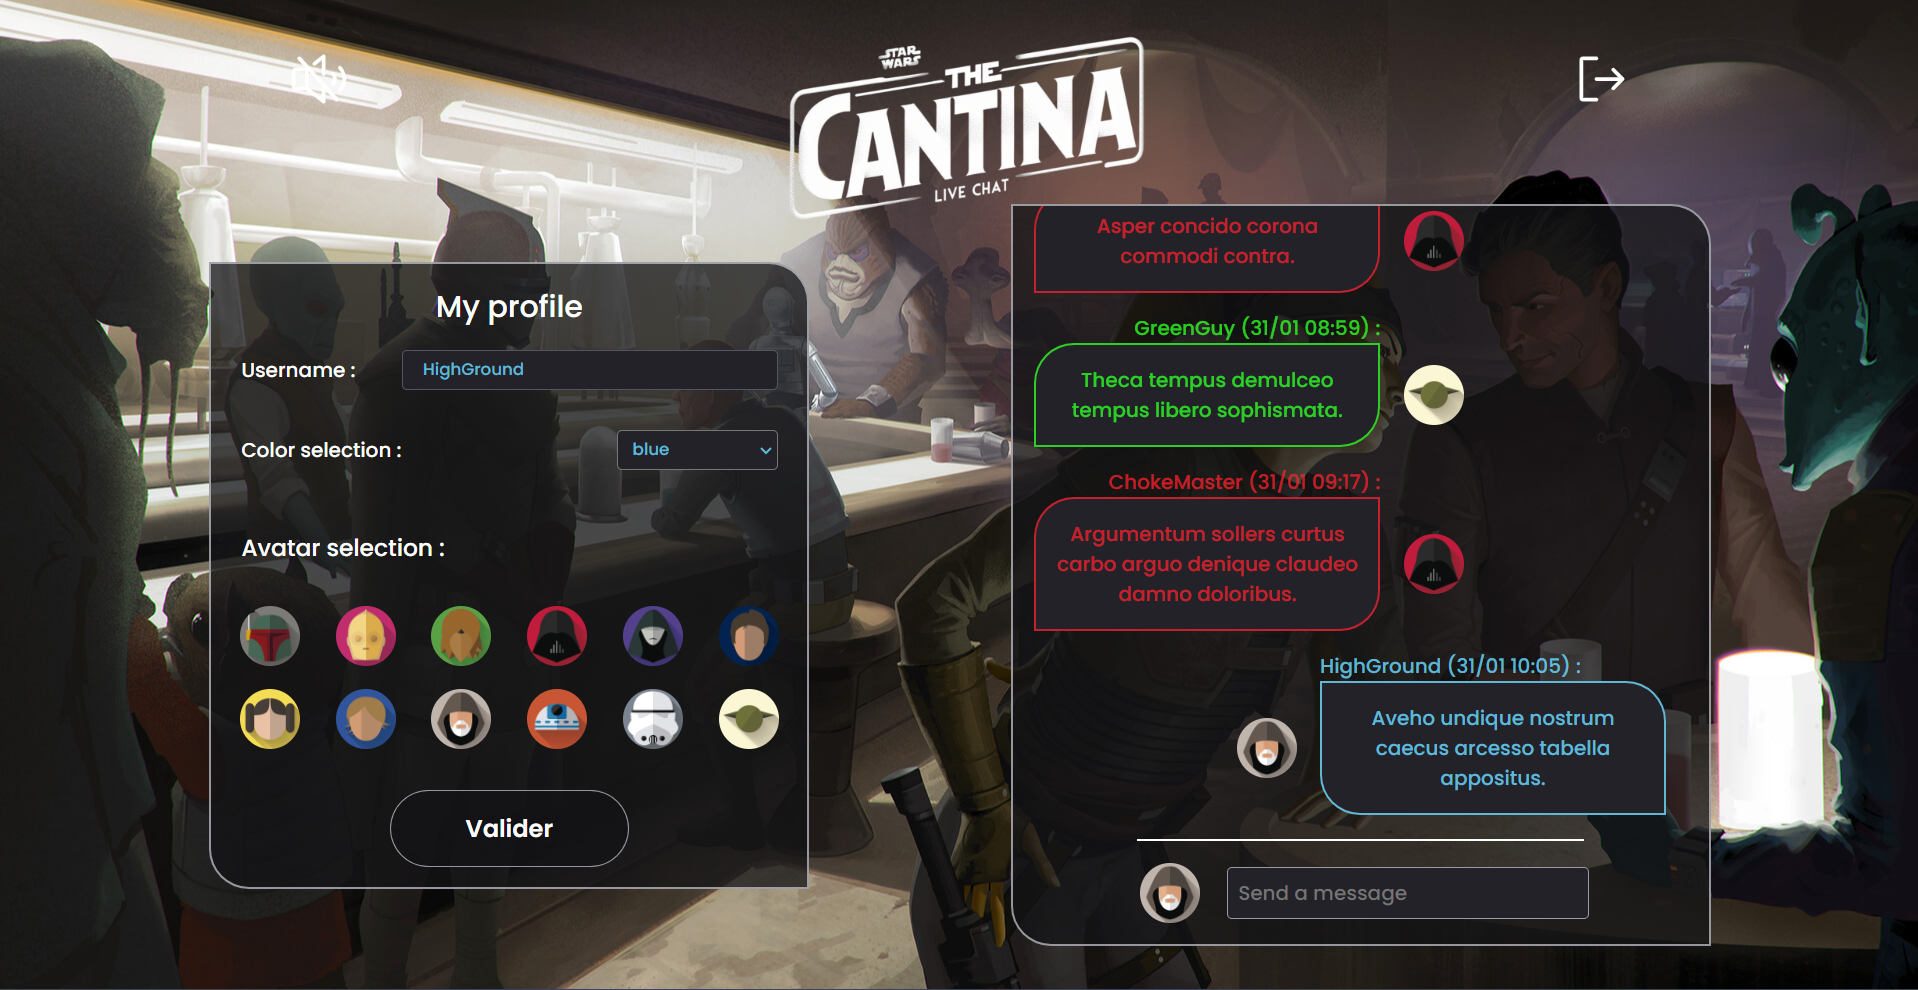
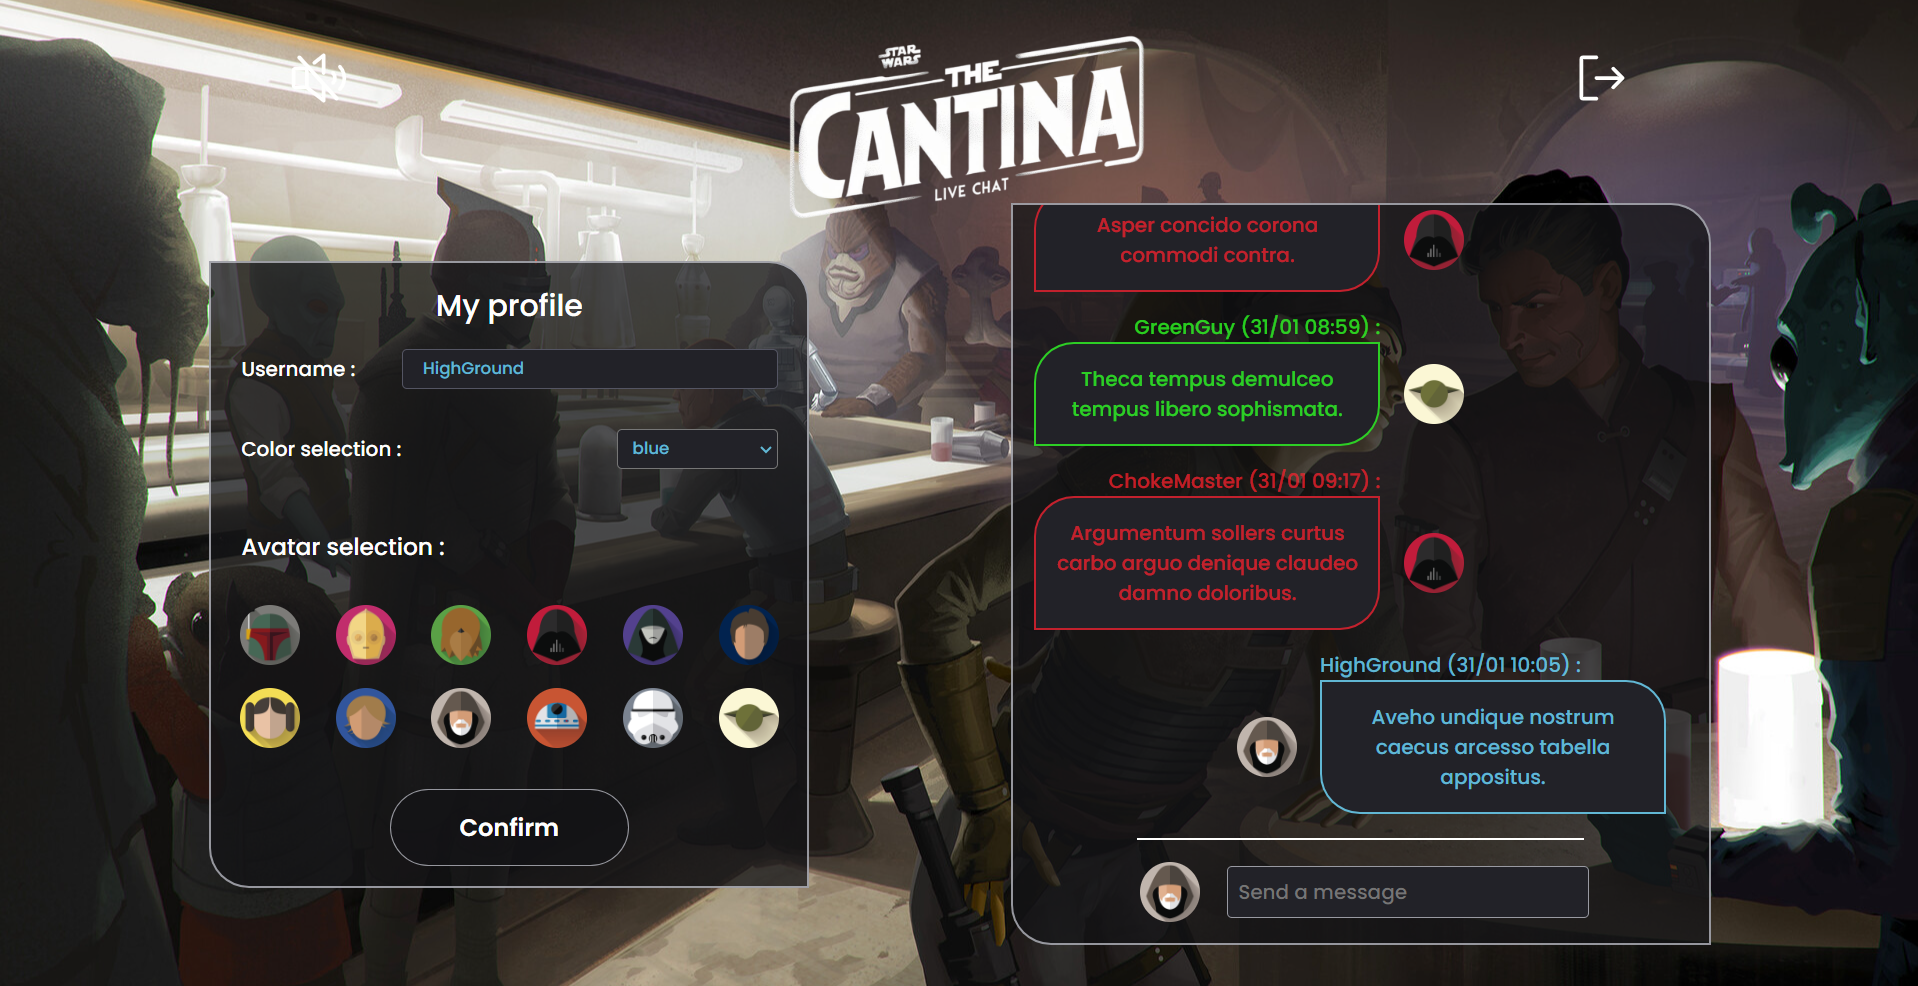
readme fix

diff --git a/frontend/src/components/UserProfile/UserProfile.jsx b/frontend/src/components/UserProfile/UserProfile.jsx
@@ -136,7 +136,7 @@ function UserProfile() {
           ))}
       </section>
       <button type="button" className="profile__button" onClick={handleSubmit}>
-        Valider
+        Confirm
       </button>
     </section>
   );

diff --git a/README.md b/README.md
@@ -6,8 +6,12 @@ Set in the Star Wars universe, you can host this application to chat with people
 
 ### Visuals
 
-![Page de connexion](./frontend/src/ressources/SignUp-Result-Mobile.png)
+#### Mobile version
 
-![Page de Chat mobile](./frontend/src/ressources/Cantina-Result-Mobile.png)
+![Page de Chat Desktop](./frontend/src/ressources/SignIn-Result-Mobile.png)
+
+![Page de Chat Desktop](./frontend/src/ressources/Cantina-Result-Mobile.png)
+
+#### Desktop version
 
 ![Page de Chat Desktop](./frontend/src/ressources/Cantina-Result-Desktop.png)
